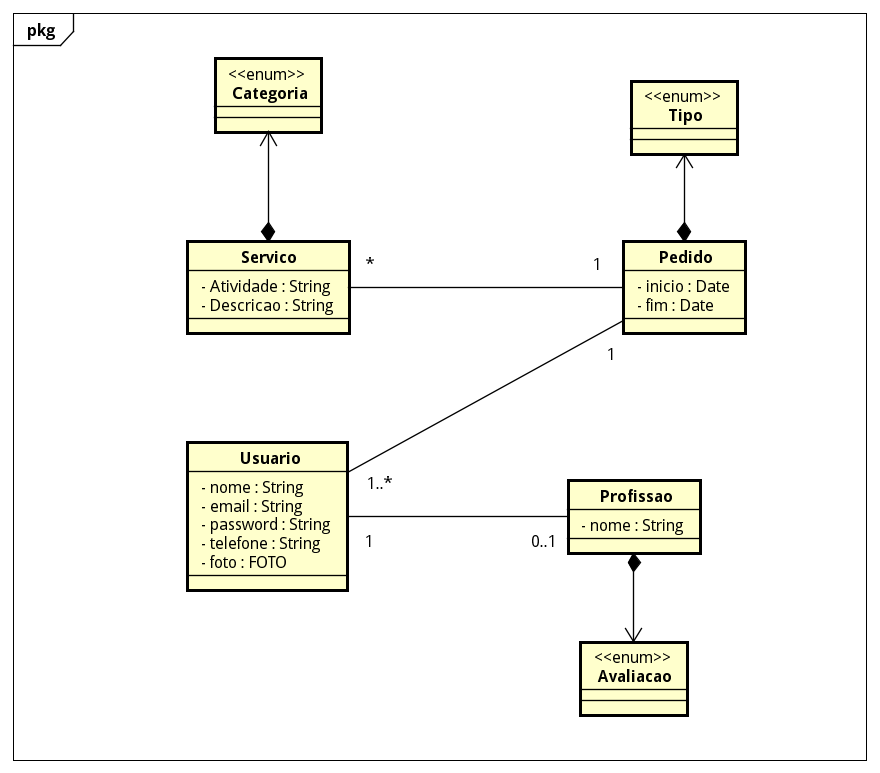
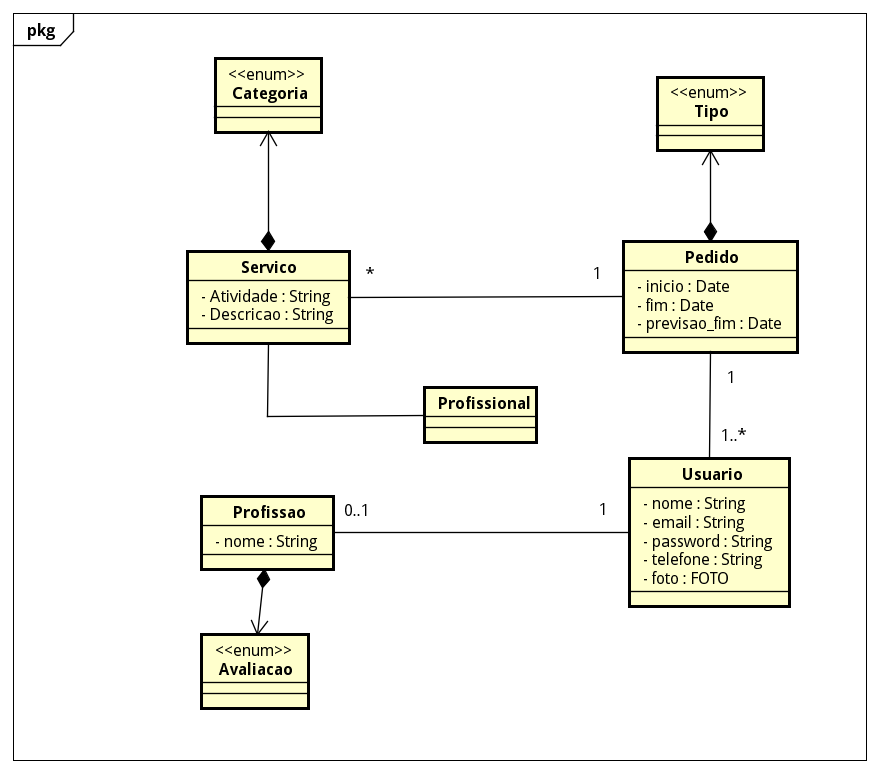
Removendo flyway Criando relacionamento oneToMany unidirecional Criando campos de data

diff --git a/src/main/java/com/websi/gethackers/model/Pedido.java b/src/main/java/com/websi/gethackers/model/Pedido.java
@@ -1,10 +1,13 @@
 package com.websi.gethackers.model;
 
+import org.springframework.format.annotation.DateTimeFormat;
 import org.springframework.format.annotation.NumberFormat;
 
 import javax.persistence.*;
 import javax.validation.constraints.NotNull;
 import java.math.BigDecimal;
+import java.util.Date;
+import java.util.List;
 
 /**
  * Created by gabriel on 29/05/17.
@@ -19,6 +22,13 @@ public class Pedido {
     @NumberFormat(pattern = "#,##0.00")
     private BigDecimal valor;
 
-    private Servico servico;
+    @OneToMany(cascade = CascadeType.ALL, orphanRemoval = true)
+    private List<Servico> servicos;
 
+    @DateTimeFormat(pattern = "dd/MM/yyyy hh:mm:ss")
+    private Date data_inicio;
+    @DateTimeFormat(pattern = "dd/MM/yyyy hh:mm:ss")
+    private Date previsao_fim;
+    @DateTimeFormat(pattern = "dd/MM/yyyy hh:mm:ss")
+    private Date data_fim;
 }

diff --git a/src/main/java/com/websi/gethackers/model/Servico.java b/src/main/java/com/websi/gethackers/model/Servico.java
@@ -10,7 +10,8 @@ import javax.validation.constraints.NotNull;
 /**
  * Created by gabriel on 29/05/17.
  */
-@Entity(name = "servicos")
+@Entity
+@Table(name = "servicos")
 public class Servico {
     @Id
     @GeneratedValue(strategy = GenerationType.IDENTITY)
@@ -30,4 +31,5 @@ public class Servico {
     private String Atividade;
 
     private String descricao;
+
 }
